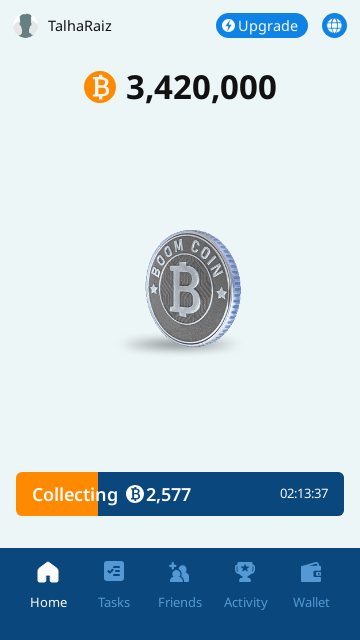
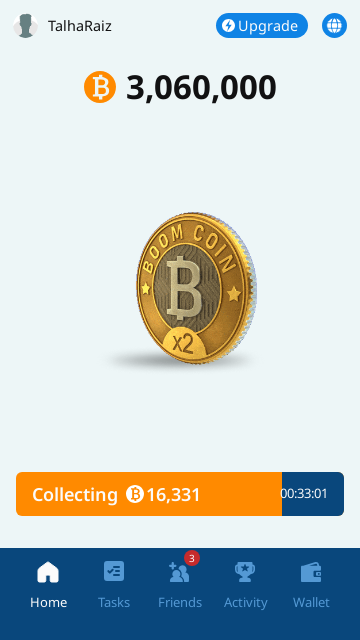
added cexp

diff --git a/cryptos/cexp.js b/cryptos/cexp.js
@@ -1,0 +1,89 @@
+const chromium = require("@sparticuz/chromium");
+const puppeteer = require("puppeteer");
+const {setTimeout} = require('node:timers/promises');
+
+const urls = [
+'https://cexp.cex.io/#tgWebAppData=query_id%3DAAGij0NzAAAAAKKPQ3OhgrZK%26user%3D%257B%2522id%2522%253A1933807522%252C%2522first_name%2522%253A%2522%25D8%25B7%25D9%2584%25D8%25AD%25DB%2581%2522%252C%2522last_name%2522%253A%2522%2522%252C%2522username%2522%253A%2522TalhaRiaz%2522%252C%2522language_code%2522%253A%2522en%2522%252C%2522allows_write_to_pm%2522%253Atrue%257D%26auth_date%3D1721478561%26hash%3D717f2a442a44675ec9be77b85fa2d5e5445e8acb10101bf0233ff595cdec2e68&tgWebAppVersion=7.6&tgWebAppPlatform=android&tgWebAppThemeParams=%7B%22bg_color%22%3A%22%23ffffff%22%2C%22section_bg_color%22%3A%22%23ffffff%22%2C%22secondary_bg_color%22%3A%22%23f0f0f0%22%2C%22text_color%22%3A%22%23222222%22%2C%22hint_color%22%3A%22%23a8a8a8%22%2C%22link_color%22%3A%22%232678b6%22%2C%22button_color%22%3A%22%2350a8eb%22%2C%22button_text_color%22%3A%22%23ffffff%22%2C%22header_bg_color%22%3A%22%23527da3%22%2C%22accent_text_color%22%3A%22%231c93e3%22%2C%22section_header_text_color%22%3A%22%233a95d5%22%2C%22subtitle_text_color%22%3A%22%2382868a%22%2C%22destructive_text_color%22%3A%22%23cc2929%22%2C%22section_separator_color%22%3A%22%23d9d9d9%22%7D '
+];
+let browser = null
+const launchBrowser = async()=>{
+  browser = await puppeteer.launch({
+    headless: false,
+    args: [
+      ...chromium.args,
+      '--no-sandbox',
+      '--disable-setuid-sandbox',
+      '--disable-dev-shm-usage',
+      '--disable-accelerated-2d-canvas',
+      '--disable-gpu',
+      '--window-size=360,640',
+    ],
+    defaultViewport: {
+      width: 360,
+      height: 640,
+      isMobile: true,
+      hasTouch: true,
+    },
+    executablePath: await chromium.executablePath(),
+    headless: chromium.headless,
+  });
+} 
+
+const userAgent = 'Mozilla/5.0 (Linux; Android 10; Mobile) AppleWebKit/537.36 (KHTML, like Gecko) Chrome/85.0.4183.127 Mobile Safari/537.36';
+
+const func = async (url) => {
+  // Launch the browser
+  try {
+    if(!browser) await launchBrowser()
+
+      // Open a new page
+      const page = await browser.newPage();
+      // Set user agent
+      await page.setUserAgent(userAgent);
+      // Set viewport for mobile device
+      await page.setViewport({
+        width: 360,
+        height: 640,
+        isMobile: true,
+        hasTouch: true,
+        deviceScaleFactor: 2,
+      });
+    
+      // Navigate to the desired URL
+      await page.goto(url);
+      // Wait for 10 seconds
+      await setTimeout(1000);
+      // await page.waitForSelector('.progress');
+
+      // Click on the element with the class name 'progress'
+      setInterval(async ()=>{
+          try {
+            await page.screenshot({ path: './images/cexp.png' });
+            await page.waitForSelector('nav.Navigation_nav__MsE7Z');
+
+            // Click the button with the text "Farm"
+            await page.evaluate(() => {
+              const buttons = Array.from(document.querySelectorAll('button.Button_btn__XqmXE'));
+              const farmButton = buttons.find(button => button.textContent.trim() === 'Farm');
+              if (farmButton) {
+                farmButton.click();
+              }
+            });
+            await page.click('.Farm_startFarmingBtnWrapper__iEYr7')
+    
+          } catch (error) {
+            console.log(error)
+          }
+      },1000)
+     
+     
+  } catch (error) {
+     console.log(error)
+  }
+  // Close the browser
+ 
+};
+
+
+
+func(urls[0])

diff --git a/cryptos/Dotcoin.js b/cryptos/Dotcoin.js
@@ -69,7 +69,7 @@ async function saveCoins() {
 
   try {
     const response = await axios.post(url, data, { headers });
-    console.log(response.data);
+    // console.log(response.data);
   } catch (error) {
     console.error('Error making the request:', error);
   }
@@ -105,7 +105,7 @@ async function restoreAttempt() {
 
   try {
     const response = await axios.post(url, data, { headers });
-    console.log(response.data);
+    // console.log(response.data);
   } catch (error) {
     console.error('Error making the request:', error);
   }

diff --git a/cryptos/index.js b/cryptos/index.js
@@ -6,3 +6,4 @@ require('./baboon.js')
 // require('./timeFarm.js')
 require('./boom.js')
 require('./Dotcoin.js')
+require('./cexp.js')
